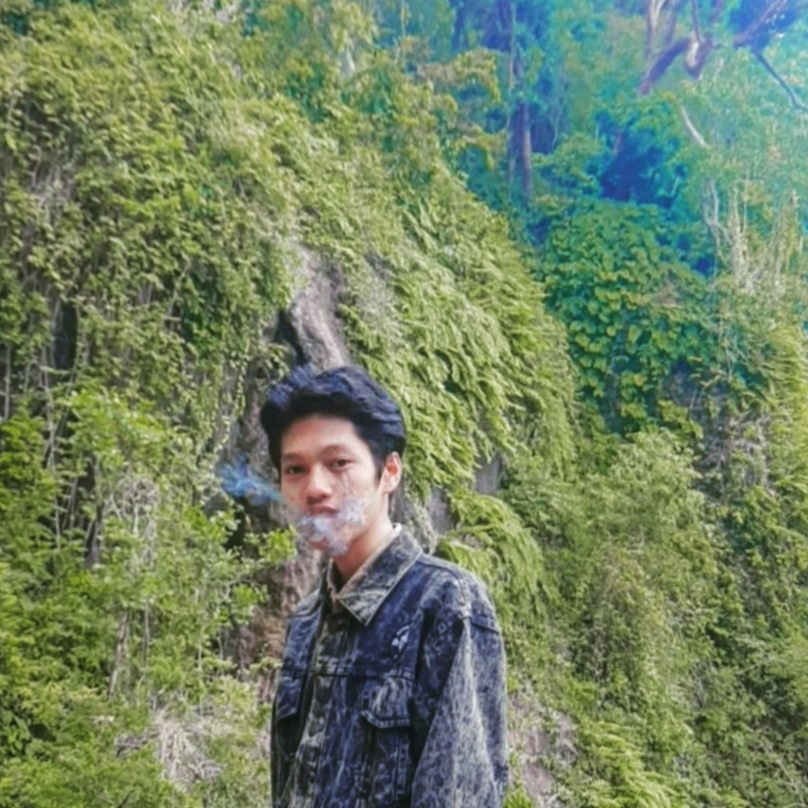
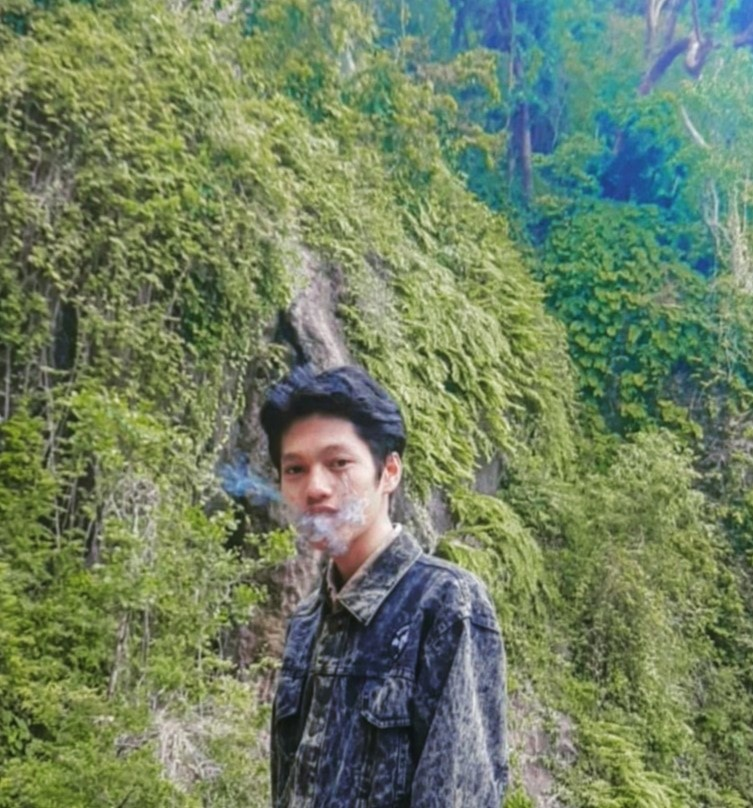
change photo

diff --git a/index.html b/index.html
@@ -51,7 +51,7 @@
 
     <!-- Jumbotron -->
     <section class="jumbotron text-center">
-      <img src="img/p.jpg" alt="Rian Anggara Pratama" width="200" class="rounded-circle img-thumbnail" />
+      <img src="img/p.jpg" alt="Rian Anggara Pratama" width="250" class="rounded-circle img-thumbnail" />
       <h1 class="display-4">Rian Anggara Pratama</h1>
       <p class="lead">|Don't Play With Me|</p>
       <svg xmlns="http://www.w3.org/2000/svg" viewBox="0 0 1440 320">
